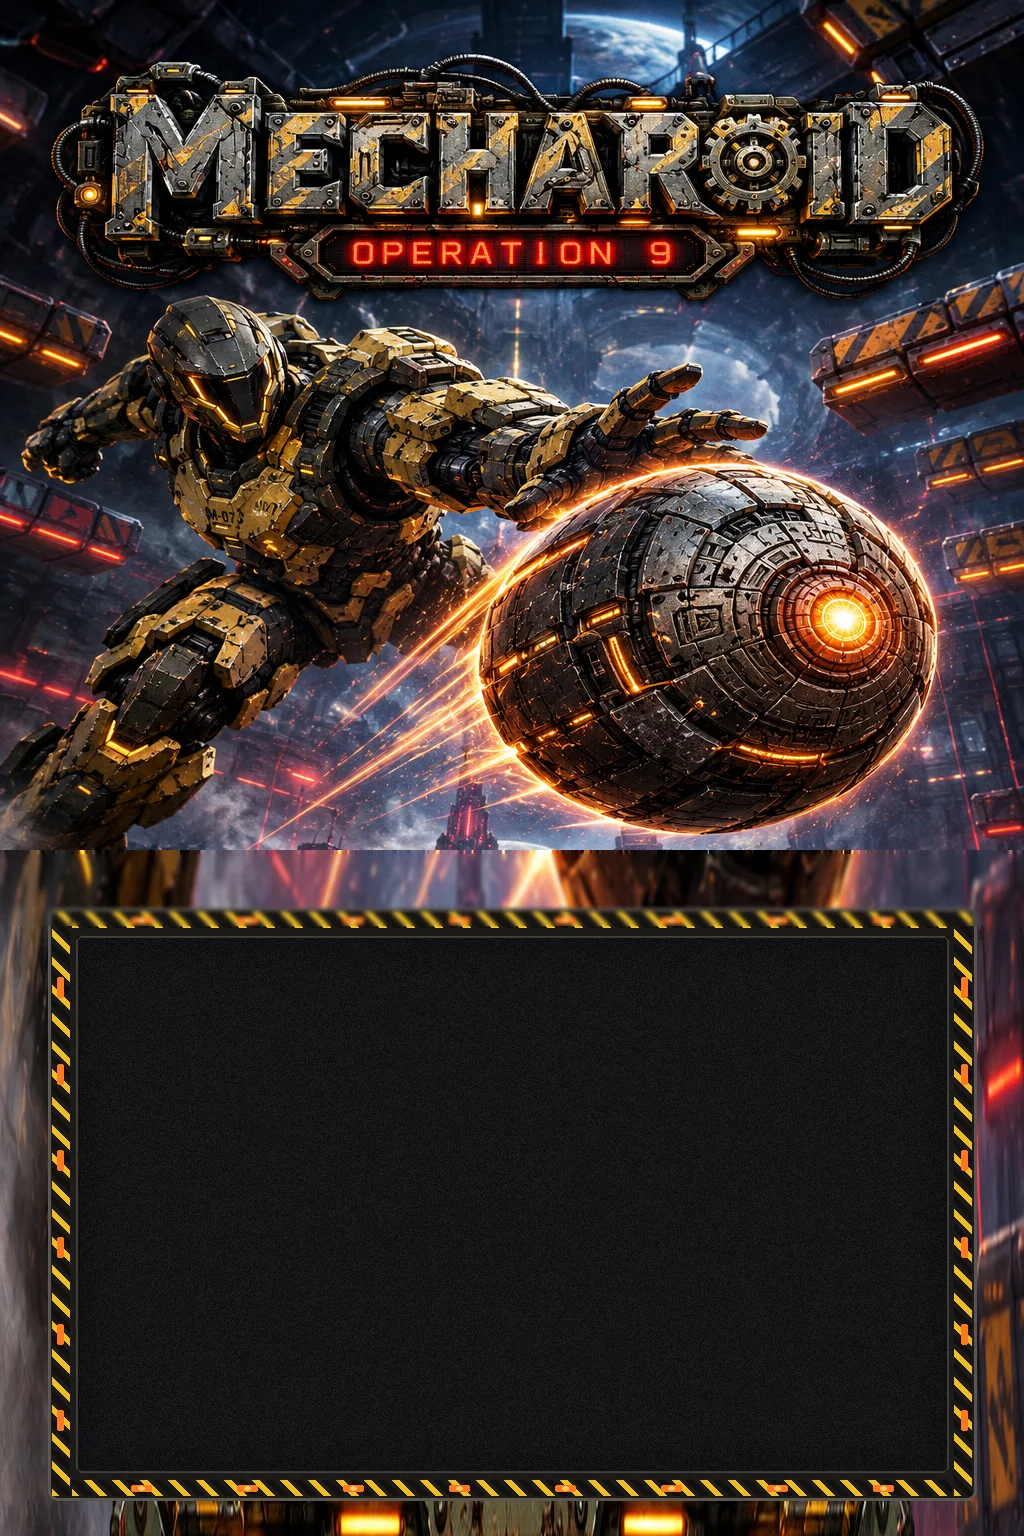
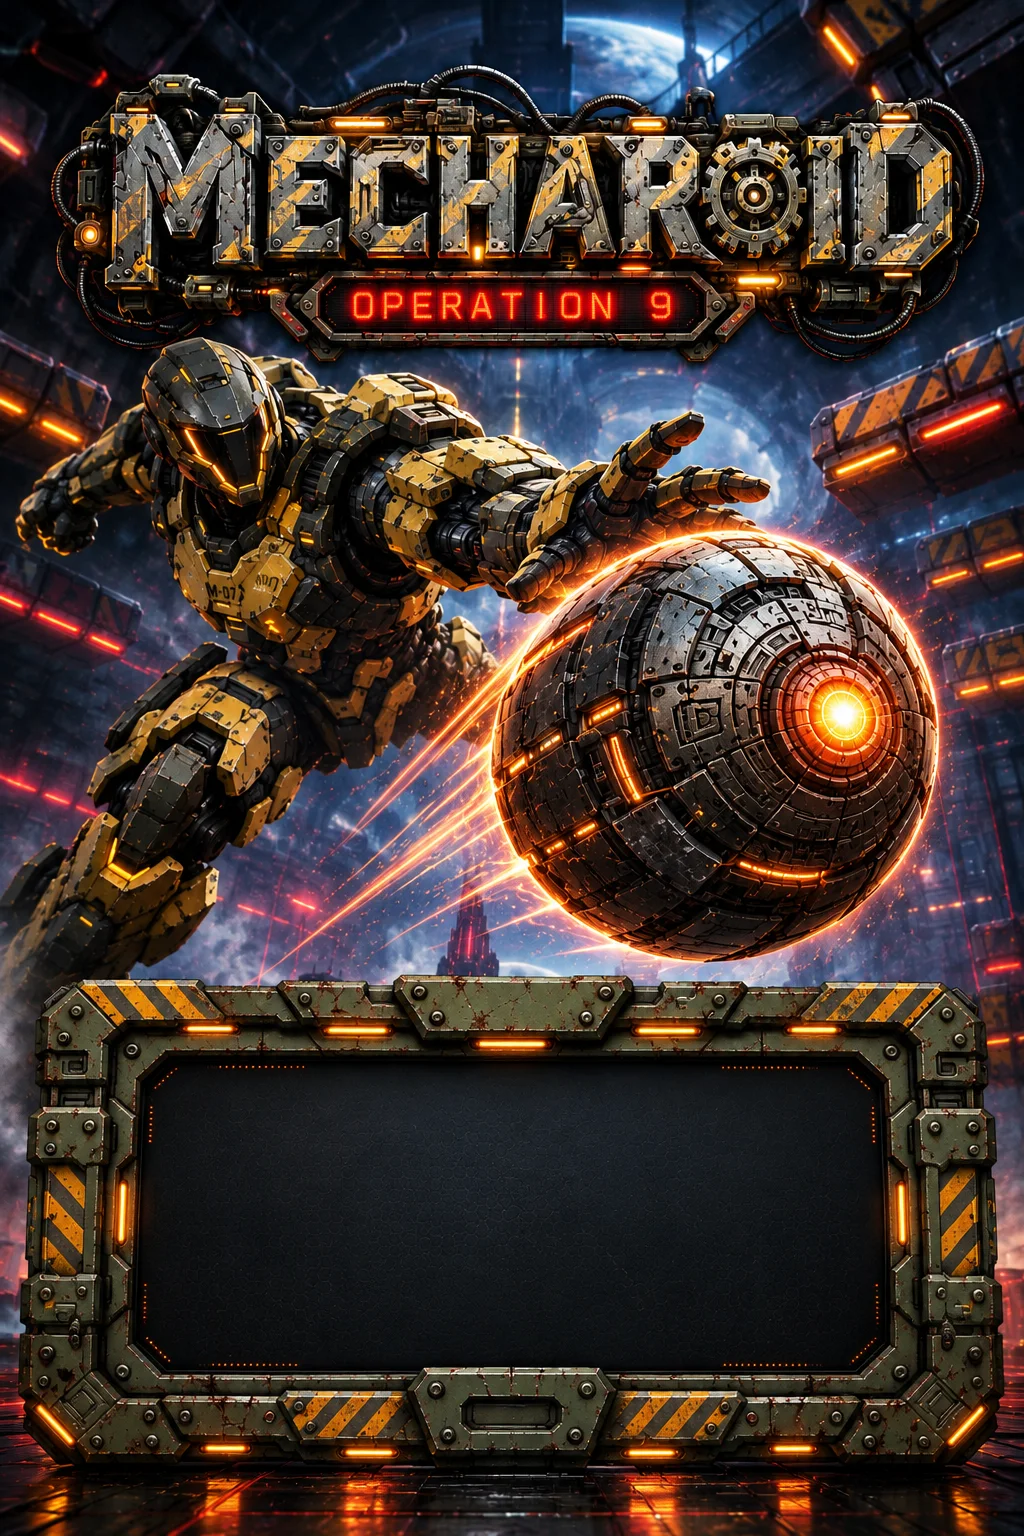
Use user title art; fit menu text inside yellow frame

diff --git a/index.html b/index.html
@@ -445,15 +445,15 @@
     }
     #titleMenu {
       position: absolute;
-      left: 8.5%;
-      top: 62%;
-      width: 83%;
-      height: 33%;
+      left: 14.5%;
+      top: 70.2%;
+      width: 71%;
+      height: 18%;
       display: grid;
       grid-template-columns: 1fr 1fr;
-      grid-template-rows: 1.2fr 1fr 1fr 1fr;
-      gap: clamp(6px, 1.1vh, 12px) clamp(10px, 2vw, 18px);
-      padding: clamp(8px, 1.4vh, 16px) clamp(10px, 2vw, 18px);
+      grid-template-rows: 1.15fr 1fr 1fr 1fr;
+      gap: clamp(2px, 0.55vh, 6px) clamp(6px, 1.2vw, 10px);
+      padding: clamp(2px, 0.45vh, 5px) clamp(4px, 0.9vw, 8px);
       box-sizing: border-box;
       z-index: 2;
     }
@@ -479,9 +479,9 @@
       background: transparent;
       color: #ff9a2a;
       font-family: "Share Tech Mono", ui-monospace, "Courier New", monospace;
-      font-size: clamp(15px, 3.2vw, 24px);
+      font-size: clamp(11px, 2.35vw, 16px);
       font-weight: 700;
-      letter-spacing: 0.12em;
+      letter-spacing: 0.06em;
       text-transform: uppercase;
       text-shadow:
         0 0 4px rgba(255, 154, 42, 0.85),
@@ -499,8 +499,8 @@
     }
     #titleMenu .title-btn.primary {
       grid-column: 1 / -1;
-      font-size: clamp(17px, 3.8vw, 28px);
-      letter-spacing: 0.16em;
+      font-size: clamp(12px, 2.7vw, 18px);
+      letter-spacing: 0.08em;
       color: #ffb24a;
       animation-duration: 2.4s;
     }
@@ -820,7 +820,7 @@
 
   <div id="titleScreen" class="show" aria-hidden="false">
     <div id="titleStage">
-      <img id="titleArt" src="title-screen.webp?v=2" alt="Mecharoid Operation 9" width="1024" height="1536" />
+      <img id="titleArt" src="title-screen.webp?v=3" alt="Mecharoid Operation 9" width="1024" height="1536" />
       <nav id="titleMenu" aria-label="Menú principal">
         <button type="button" class="title-btn primary" data-title="new">Nueva partida</button>
         <button type="button" class="title-btn" data-title="load">Cargar</button>
@@ -876,7 +876,7 @@
       <div id="estateTray" aria-label="Catalogo de terreno"></div>
     </div>
   </div>
-  <script src="game.js?v=94"></script>
+  <script src="game.js?v=95"></script>
   <script src="estate.js?v=2"></script>
 </body>
 </html>
